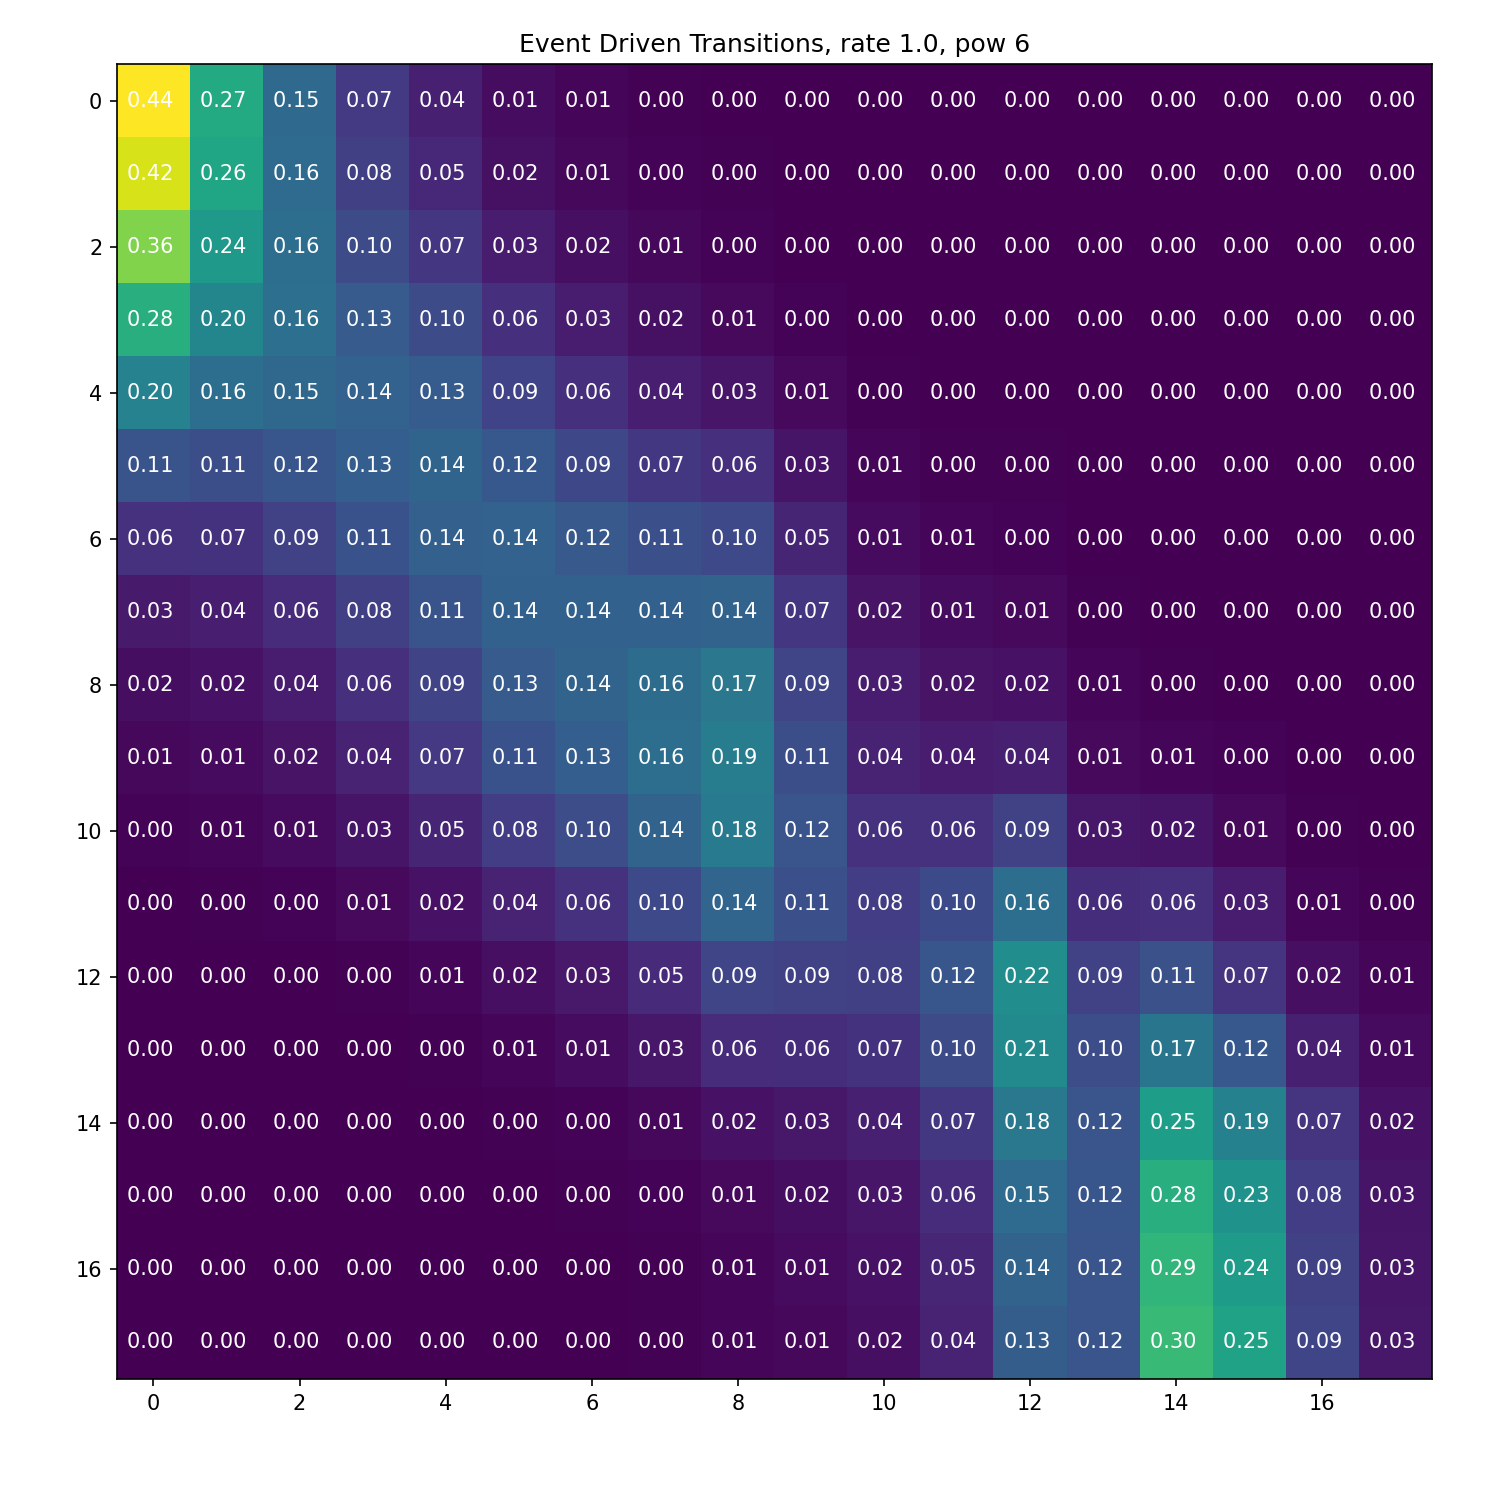
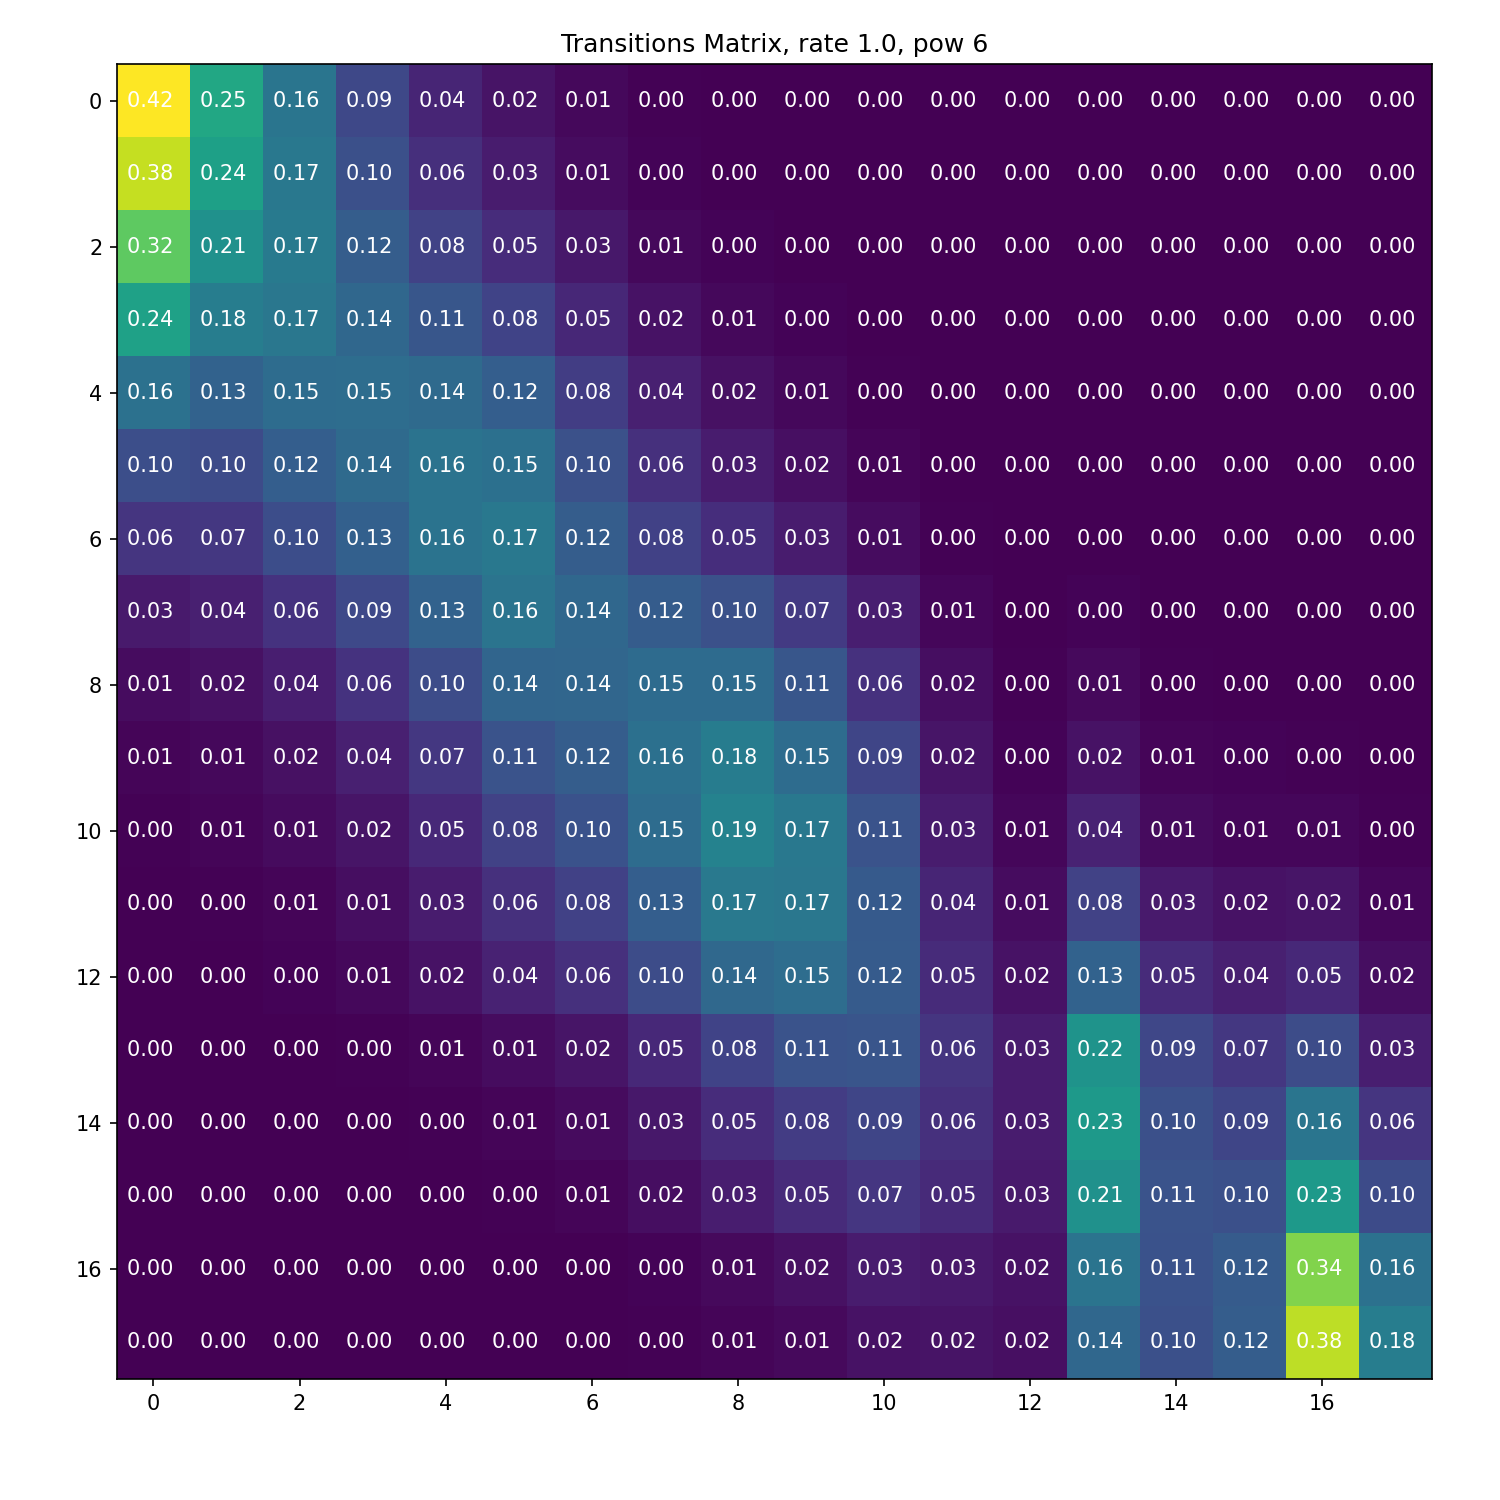
Merge Conflicts

diff --git a/approximations.py b/approximations.py
@@ -1,0 +1,112 @@
+import numpy as np
+import sys
+import matplotlib.pyplot as plt
+import argparse
+from sp_sims.simulators.stochasticprocesses import *
+from sp_sims.statistics.statistics import *
+from sp_sims.estimators.algos import *
+
+
+def argparser(parser: argparse.ArgumentParser):
+    parser.add_argument('--length',
+                        dest='length',
+                        default=10000,
+                        type=int,
+                        help='Length of episode in discrete realizations.')
+    parser.add_argument('--mu',
+                        dest='mu',
+                        default = .15,
+                        type=float,
+                        help='Service Rate')
+    parser.add_argument('--lambda',
+                        dest='lam',
+                        default=.10,
+                        type=float,
+                        help='Birth Rate')
+    parser.add_argument('--samprate',
+                        dest='samprate',
+                        default=1.0,
+                        type=float,
+                        help='Rate at which we sample real line.')
+    parser.add_argument('--init_state',
+                        dest='init_state',
+                        type=int,
+                        default = 0,
+                        help='Initial State in the real line.(Amnt of current events)')
+
+
+
+def sampled_approximation(state_tape, holdTimes_tape,args):
+    fig,axs = plt.subplots(1,2)
+    font_size = 8
+    fig.tight_layout()
+    samp_time = 1/args.samprate
+    fig.set_size_inches(10,10)
+
+    print(r"Calculating the $\Delta t = ${}-Sampeld Transition Matrix MLE...".format(args.samprate))
+    sampled_tape = simple_sample(args.samprate, state_tape, holdTimes_tape)
+    phat = state_transitions(np.full_like(sampled_tape, samp_time), sampled_tape)
+
+    axs[0].imshow(phat)
+    for i in range(phat.shape[0]):
+        for j in range(phat.shape[1]):
+            axs[0].text(j,i,"%2.2f " % phat[i,j],ha="center",va="center",color="w",fontsize=font_size)
+
+    Qdt = power_series_log(phat, 10)
+    Q = Qdt / samp_time
+
+    axs[1].imshow(Q)
+    for i in range(Q.shape[0]):
+        for j in range(Q.shape[1]):
+            axs[1].text(j,i,"%2.2f " % Q[i,j],ha="center",va="center",color="w",fontsize=font_size)
+    axs[1].set_title(
+            r"Estimated Generator Matrix through samples at $\Delta t = ${}. $\mu$:{} $\lambda$:{} ".format(args.samprate,args.mu,args.lam))
+    plt.savefig('Images/MLE_sample_driven'.format(
+        args.samprate,args.lam,args.mu, format='eps',dpi=200))
+    plt.show()
+    print("Calculated. Displaying...")
+
+
+def show_est_gen_matrix(state_tape,holdTimes_tape,args):
+
+    fig, axs = plt.subplots(1,1)
+    font_size = 8
+    fig.tight_layout()
+    fig.set_size_inches(10,10)
+
+    print("Calculating the Event Driven Matrix MLE...")
+    gen_matrix = event_driven_mle(state_tape,holdTimes_tape)
+    print("Calculated. Displaying...")
+
+    axs.imshow(gen_matrix)
+    for i in range(gen_matrix.shape[0]):
+        for j in range(gen_matrix.shape[1]):
+            axs.text(j,i,"%2.2f " % gen_matrix[i,j],ha="center",va="center",color="w",fontsize=font_size)
+    axs.set_title(r"Estimated Generator Matrix through event driven transitions. $\mu$:{} $\lambda$:{} ".format(args.mu,args.lam))
+    plt.savefig('Images/MLE_event_driven'.format(
+        args.samprate,args.lam,args.mu, format='eps',dpi=200))
+    plt.show()
+
+
+if __name__ == '__main__':
+    # Create Markov Embedded Simulator
+    parser  = argparse.ArgumentParser()
+    argparser(parser)
+    args = parser.parse_args()
+
+    # Created Tapes
+    rates = {"lambda": args.lam,"mu":args.mu} #This should keep us within the corner
+    print(f"Working with parameters mu:{args.mu} lambda:{args.lam}")
+    roe = RaceOfExponentials(args.length,rates)
+    holdTimes_tape, state_tape = roe.generate_history(args.init_state)
+
+    # Sample it
+    # Calculate Stationary Distribution
+    #  sampled_tape = simple_sample(args.samprate, state_tape, holdTimes_tapes)
+    #  trans_matx_samp=state_transitions(
+    #      np.full_like(sampled_tape,samp_rate,dtype=np.float16), sampled_tape)
+     
+    #  sample
+    show_est_gen_matrix(state_tape,holdTimes_tape,args)
+    #  sampled_approximation(state_tape, holdTimes_tape, args)
+

diff --git a/deltat.py b/deltat.py
@@ -75,7 +75,7 @@ def frob_comparison(state_tape,holdTimes_tape,samp_rate=1,power_val=64):
     fig,axs = plt.subplots(1,1)
 
     # Save Event Driven(For Reference)
-    event_driven = state_transitions(holdTimes_tape, state_tape)
+    event_driven = trans_matrix(holdTimes_tape, state_tape)
     fig, ax = plt.subplots(1,1)
     fig.tight_layout()
     fig.set_size_inches(10,10)
@@ -138,6 +138,7 @@ def power_matrix(holdTimes_tape, state_tape, powers=16, samp_rate=-1):
                 np.full_like(samped_tape,samp_rate),
                 samped_tape)
 
+    frob_norm_diff = []
     for z in range(powers):
         fig, ax = plt.subplots(1,1)
         fig.tight_layout()
@@ -153,7 +154,16 @@ def power_matrix(holdTimes_tape, state_tape, powers=16, samp_rate=-1):
                 .format(int(samp_rate),int(samp_rate),z+1),dpi=150)
         plt.clf()
         plt.close()
+        frob_norm_diff.append( np.linalg.norm(trans_matx_event - (trans_matx_event@trans_matx_event)))
         trans_matx_event = trans_matx_event @ trans_matx_event
+
+
+    fig, ax = plt.subplots(1,1)
+    fig.tight_layout()
+    fig.set_size_inches(10,10)
+    plt.plot(range(len(frob_norm_diff)),frob_norm_diff)
+    plt.title('From Norms of powers')
+    plt.savefig('./Images/transition_matrices_samped_rate{}/forb_norm.png'.format(int(samp_rate)))
     print('Done with saving images')
 
 def show_trans_matrix(holdTimes_tape, state_tape,samp_rate):
@@ -251,6 +261,52 @@ def convergence_of_transitionmat(holdTimes_tape, state_tape,samp_rate):
 
     print('Done with saving images')
 
+def get_generator_matrix(holdTimes_tape,state_tape,basel_samprate=1, max_doubling_of_rate=12):
+
+    mats = []
+    frob_norm_diff = []
+    last_trans_matx = np.zeros((0,0))
+    longest_state_spaces = 0
+    for k in range(0,max_doubling_of_rate+1):
+        # Set Figuresj
+        fig, ax = plt.subplots(1,1)
+        fig.tight_layout()
+        fig.set_size_inches(10,10)
+        # Sample
+        sampled_tape = simple_sample(basel_samprate*2**k, state_tape, holdTimes_tape)
+        trans_matrx = state_transitions(np.full_like(sampled_tape,basel_samprate),sampled_tape)
+        # Normalize
+        trans_matrx = (basel_samprate)*trans_matrx
+        mats.append(trans_matrx)
+        longest_state_spaces = max(longest_state_spaces,trans_matrx.shape[0])
+
+        # Show/Save Figure
+        ax.imshow(trans_matrx)
+        for i in range(trans_matrx.shape[0]):
+            for j in range(trans_matrx.shape[1]):
+                ax.text(j,i,"%2.2f " % trans_matrx[i,j],ha="center",va="center",color="w")
+        ax.set_title("Estimation of Transition at {} samples".format(2**k))
+        file_name = './Images/gen_matrx_est/trasmat_samps_{:03d}.png'.format(k)
+        print('Storing {} ...'.format(file_name))
+        plt.savefig(file_name,dpi=150)
+        plt.clf()
+    
+    # Pad the Matrices
+    mats = [
+            np.pad(
+                mat, 
+                ((longest_state_spaces-mat.shape[0]),
+                 (longest_state_spaces-mat.shape[1])),mode="constant",constant_values=0) for mat in mats]
+
+    # Frob Norm here
+    for k,mat in enumerate(mats):
+        if k >0:
+            frob_norm_diff.append(np.linalg.norm(mat-mat[k-1]))
+
+    plt.plot(range(frob_norm_diff),frob_norm_diff)
+    plt.savefig('./Images/gen_matrx_est/forb_norm.png')
+    print("Estimated Generator matrices saved")
+
 
 if __name__ == '__main__':
     # Create Markov Embedded Simulator
@@ -269,10 +325,12 @@ if __name__ == '__main__':
     # Calculate Stationary Distribution
     
     #  frob_comparison(state_tape,holdTimes_tape,power_val=1024)
-    convergence_of_transitionmat(holdTimes_tape,state_tape,1)
+    #  convergence_of_transitionmat(holdTimes_tape,state_tape,1)
     #  show_trans_matrix(holdTimes_tape, state_tape,args.samprate)
     # power_matrix(holdTimes_tape,state_tape,64)
-    frob_comparison(state_tape, holdTimes_tape)
+    #frob_comparison(state_tape, holdTimes_tape)
     #  power_matrix(holdTimes_tape,state_tape,16,samp_rate=args.samprate)
     #  get_stationary()
+    get_generator_matrix(holdTimes_tape, state_tape)
+
 

diff --git a/sp_sims/estimators/algos.py b/sp_sims/estimators/algos.py
@@ -1,0 +1,84 @@
+import numpy as np
+import sympy as ym
+import sympy.printing as printing
+
+def event_driven_mle(state_tape,holdTimes_tape):
+    unique_elements,inverse, counts, = np.unique(
+            state_tape,
+            axis=0,
+            return_counts=True,
+            return_inverse=True)
+    
+    no_unique_states_visited = len(unique_elements)
+    gen_matrix = np.zeros((no_unique_states_visited,no_unique_states_visited))
+    tot_hold_time = np.zeros((no_unique_states_visited,1))
+    # Diagonal Matrix -> PSD(?) -> Nice properties we can analyize
+
+    # Get State Pairs TODO: This only works when we have initial state = 0
+    for itx in range(len(inverse)-1):
+        i = inverse[itx]
+        j = inverse[itx+1]
+        gen_matrix[i,j] += 1
+        tot_hold_time[i] += holdTimes_tape[itx]
+    gen_matrix = gen_matrix / np.repeat(tot_hold_time,no_unique_states_visited,axis=1)
+
+    return gen_matrix
+
+def power_series_log(mat,power):
+    assert mat.shape[0] == mat.shape[1]
+
+    # Test for convergence
+    print('||B-I||={}'.format(np.linalg.norm(mat-np.eye(mat.shape[0]),ord='fro')))
+
+    final_mat = np.zeros_like(mat)
+    for k in range(1,power):
+        cur_mat = (-1)**(k+1) * (1/k) *(mat-np.eye(mat.shape[0]))
+        final_mat += cur_mat
+
+    return final_mat
+
+def viterbi(obs_tape,inital_hs_probs, trans_probs,emission_probs):
+    
+    # Two Hidden States 
+    tape_length = len(tape_path)
+    obs = obs_tape
+
+    # Emission Probs must be KXN where K is num of hidden states and N is num of emitted states
+    num_hidden_states = emission_probs.shape[0]
+    
+    T1 = np.ndarray(num_hidden_states,tape_length,dtype=np.float16)
+    T2 = np.ndarray(num_hidden_states,tape_length,dtype=np.float16)
+
+    # Fill them
+    for i in range(num_hidden_states):
+        T1[i,0] = inital_hs_probs[i]*emission_probs[i,obs[i]]
+        T2[i,0] = 0
+
+    # Now onto the sequence
+    for j in range(1,tape_length):
+        for i in range(num_hidden_states):
+            T1[i,j] = max(T1[:,j-1]*trans_probs[:,i]*emission_probs[i,obs[j]])
+            T2[i,j] = np.argmax(T1[:,j-1]*trans_probs[:,i]*emission_probs[i,obs[j]])
+    
+    best_last_hs = []
+    Zt = np.argmax(T1[:,-1])
+    for o in range(len(statess)-1,-1,-1):
+        best_path.insert(0,best_last_hs)
+        best_last_hs = T2[best_last_hs,o]
+
+    return best_path
+
+
+
+
+
+
+
+
+        
+
+
+
+
+
+    

diff --git a/sp_sims/statistics/statistics.py b/sp_sims/statistics/statistics.py
@@ -19,6 +19,10 @@ class AbsStatisticGenerator(ABC):
     def show_state_dist(self) :
         pass
 
+# I regret the previous name so this is a quick bandaid 
+def trans_matrix(times,states):
+    return state_transitions(times, states)
+
 # Im afraind I will end up abusing the amount of tapes. Lets see
 def state_transitions(times, states):
     # Unique_Elements might seem redundant but maybe we wont always have a state space that starts at 0
@@ -36,7 +40,8 @@ def state_transitions(times, states):
     for itx in range(len(inverse)-1):
         i = inverse[itx]
         j = inverse[itx+1]
-        transition_matrix[i,j] += times[itx]
+        #  transition_matrix[i,j] += times[itx]
+        transition_matrix[i,j] += 1
 
     # Normalize
     row_sums = transition_matrix.sum(axis=1)
